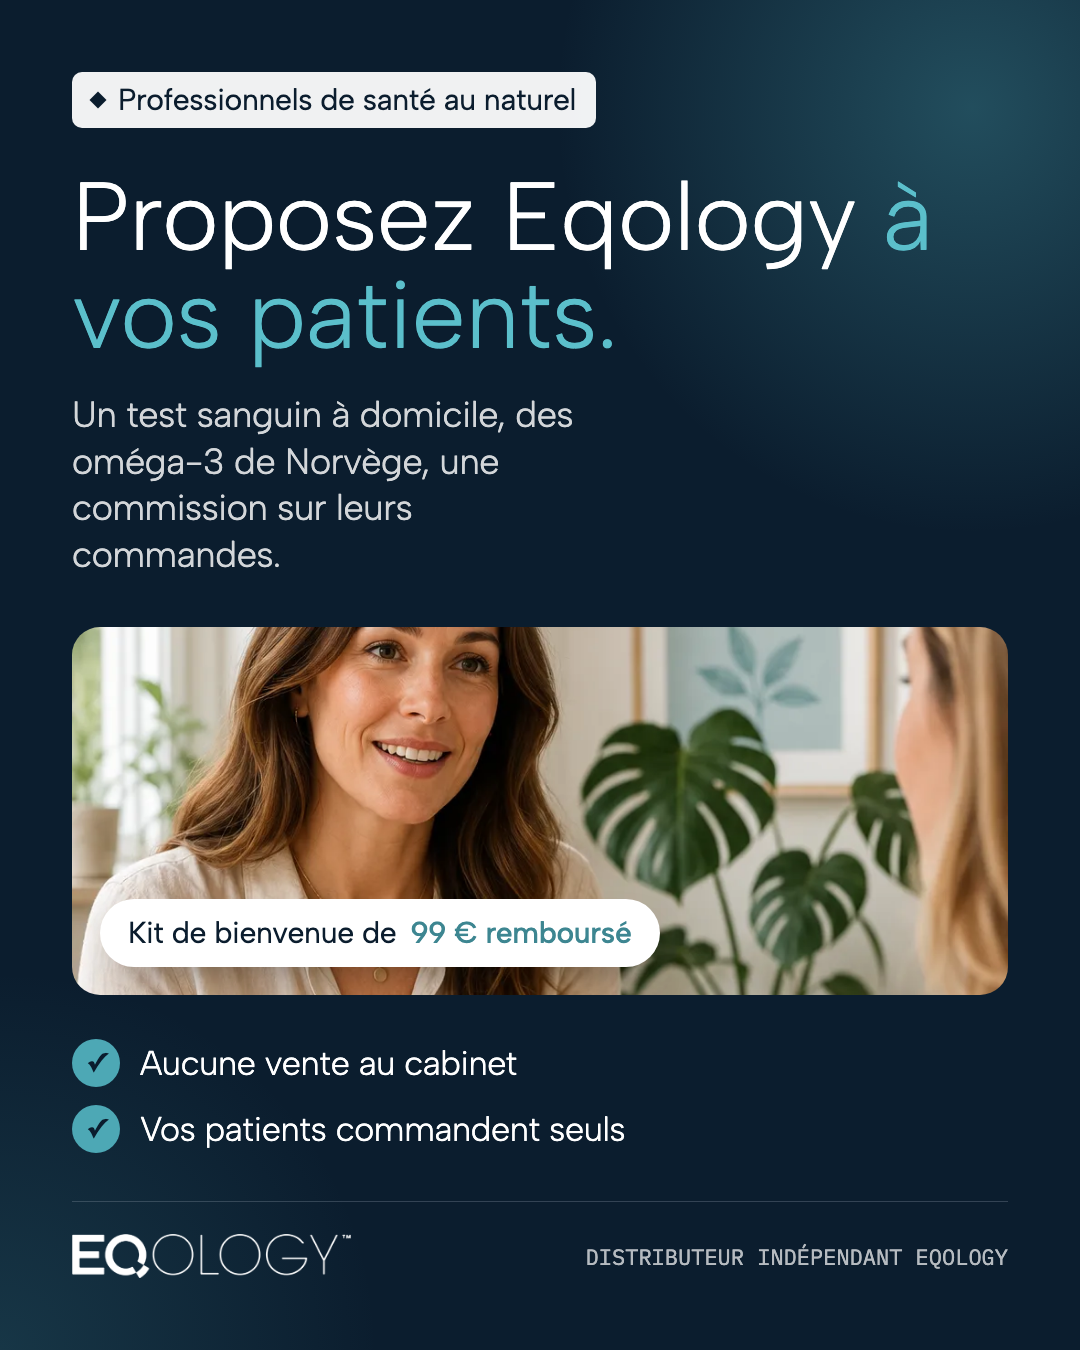
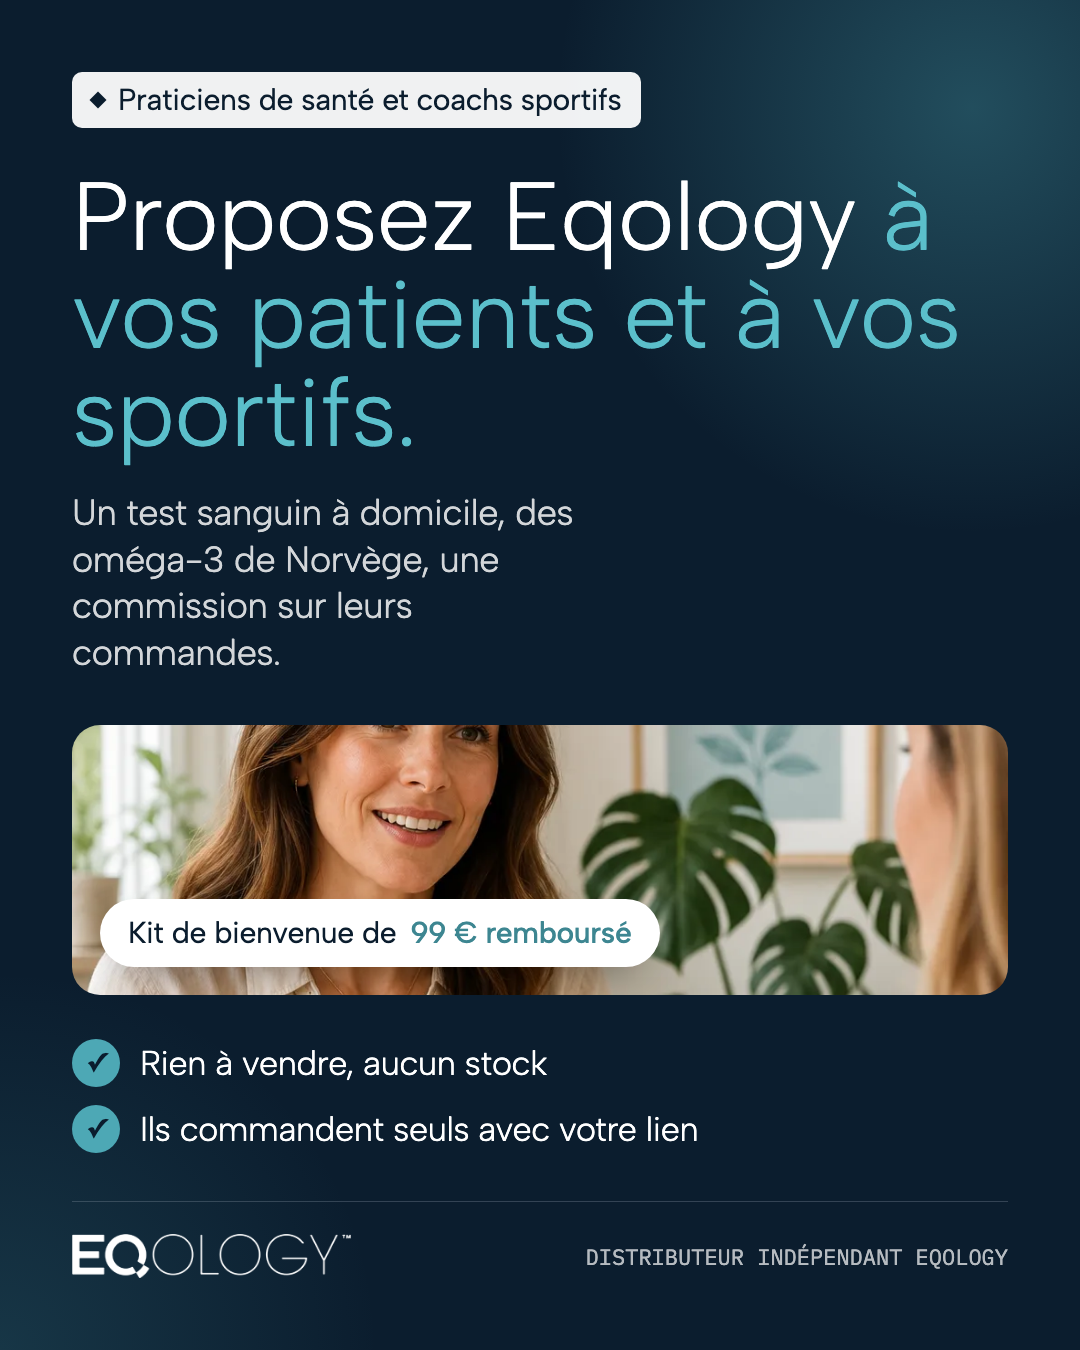
Annonces Meta : ensemble A praticiens de santé et coachs sportifs (prioritaire, 20 €/j), ensemble B complément de revenus (10 €/j) ; visuels et textes refaits

diff --git a/pubs/visuel.html b/pubs/visuel.html
@@ -37,6 +37,7 @@ li::before { content: '✓'; flex-shrink: 0; width: 48px; height: 48px; border-r
 .produits img { height: 100%; max-height: 560px; width: auto; object-fit: contain; filter: drop-shadow(0 30px 40px rgba(11,29,46,.25)); }
 .produits img.p2 { margin-left: -90px; max-height: 470px; }
 .produits img.p3 { margin-left: -70px; max-height: 420px; }
+.mention { font-size: 22px; margin-top: 24px; opacity: .6; }
 .story .page { padding: 120px 80px 260px; }
 .story h1 { font-size: 112px; }
 </style>
@@ -48,17 +49,18 @@ var q = new URLSearchParams(location.search), v = q.get('v') || 'pro', f = q.get
 if (f === 'story') document.body.classList.add('story');
 var pied = function (blanc) { return '<div class="pied"><img src="../assets/' + (blanc ? 'v2/eqology-logo-blanc.png' : 'images/eqology-logo.png') + '" alt=""><span class="mono">Distributeur indépendant Eqology</span></div>'; };
 var html = v === 'pro'
-  ? '<div class="page nuit"><span class="oeil">Professionnels de santé au naturel</span>'
-    + '<h1>Proposez Eqology <em>à vos patients.</em></h1>'
+  ? '<div class="page nuit"><span class="oeil">Praticiens de santé et coachs sportifs</span>'
+    + '<h1>Proposez Eqology <em>à vos patients et à vos sportifs.</em></h1>'
     + '<p class="sous">Un test sanguin à domicile, des oméga‑3 de Norvège, une commission sur leurs commandes.</p>'
     + '<div class="photo"><img src="../assets/v2/praticienne.webp" style="object-position:50% 30%"><span class="badge">Kit de bienvenue de <b>99&nbsp;€ remboursé</b></span></div>'
-    + '<ul><li>Aucune vente au cabinet</li><li>Vos patients commandent seuls</li></ul>'
+    + '<ul><li>Rien à vendre, aucun stock</li><li>Ils commandent seuls avec votre lien</li></ul>'
     + pied(true) + '</div>'
   : '<div class="page sable"><span class="oeil">Partenariat Eqology</span>'
-    + '<h1>Recommandez des oméga‑3 <em>et touchez une commission.</em></h1>'
-    + '<p class="sous">Vos proches commandent avec votre lien. Eqology encaisse et livre.</p>'
+    + '<h1>Un complément de revenus <em>avec les oméga‑3 Eqology.</em></h1>'
+    + '<p class="sous">Vos proches commandent avec votre lien. Eqology encaisse, livre et vous verse une commission.</p>'
     + '<div class="produits"><img src="../assets/v2/produits/pure-arctic-oil.webp"><img class="p2" src="../assets/v2/produits/omega-3-test-kit.webp"><img class="p3" src="../assets/v2/produits/pure-vegan-oil.webp"></div>'
     + '<ul><li>Sans stock ni livraison</li><li>À votre rythme, depuis chez vous</li><li>Kit de bienvenue de 99&nbsp;€ remboursé</li></ul>'
+    + '<p class="mention">Aucun revenu n’est garanti. Le plan de rémunération officiel vous est présenté avant tout engagement.</p>'
     + pied(false) + '</div>';
 document.getElementById('racine').innerHTML = html;
 document.getElementById('racine').style.height = '100%';

diff --git a/pubs/annonces.md b/pubs/annonces.md
@@ -1,53 +1,60 @@
 # Annonces Meta : recrutement de partenaires Eqology
 
-Objectif de campagne : **Prospects** (ou Ventes, avec conversion « Lead » sur le site).
-Conversion à optimiser : `Lead` (envoyé par le pixel 1114935464677335 sur merci.html, vérifié en production le 26/11/2026).
+Objectif de campagne : **Prospects**, conversion sur le site, événement `Lead` (pixel 1114935464677335, envoyé sur merci.html, vérifié en production le 26/11/2026). Conversion personnalisée de secours : « Demande de rappel » (1480872903511367).
 Bouton : **En savoir plus**. Visuels : `annonce-*-4x5.png` (fil), `annonce-*-9x16.png` (stories, reels).
+Page : « Yves Coignard · Distributeur indépendant Eqology » (1562178356968644). Compte pub : 1115842077938719. Annonceur et payeur : ZENCO SAS.
 
-Règles Meta à respecter : pas de montant de gain, pas de « revenu rapide », pas de question sur la situation financière ou la santé de la personne (« Besoin d'argent ? » est refusé).
+Budget : **30 € par jour**, réglé au niveau de chaque ensemble pour garder la priorité aux pros : **20 € pour A, 10 € pour B**. On ne touche à rien pendant 7 jours.
+
+Règles Meta à respecter : pas de montant de gain, pas de « revenu rapide », pas de phrase qui suppose la situation financière, la santé ou le métier de la personne (« Besoin d'argent ? », « Vous êtes fatigué ? » sont refusés).
 
 ---
 
-## Ensemble A : professionnels de santé au naturel
+## Ensemble A (prioritaire) : praticiens de santé et coachs sportifs
 
 Lien :
 `https://eqology-france.vercel.app/partenaire.html?cible=pro&utm_source=meta&utm_medium=paid&utm_campaign=partenaires-pro&utm_content=A1`
 
-Ciblage de départ : France, 28-65 ans, centres d'intérêt naturopathie, micronutrition, diététique, ostéopathie, médecine douce, nutrition.
+Ciblage : France, 25-65 ans. Meta ne cible plus par métier : on passe par les centres d'intérêt les plus proches, et le texte fait le tri.
+Intérêts : naturopathie, micronutrition, diététique, nutrition, ostéopathie, kinésithérapie, médecine douce, coaching sportif, préparation physique, entraîneur personnel, nutrition du sport.
+Visuels : `annonce-pro-4x5.png`, `annonce-pro-9x16.png`.
 
 **Texte principal**
-Vos patients vous demandent quels oméga‑3 choisir ? Avec Eqology, vous leur proposez d'abord un test sanguin à domicile, puis une huile de Norvège issue d'une pêche certifiée MSC.
+Praticiens de santé, coachs sportifs : on vous demande sûrement quels oméga‑3 prendre. Avec Eqology, vous proposez d'abord un test sanguin à domicile, puis une huile de Norvège issue d'une pêche certifiée MSC.
 
-Ils commandent seuls avec votre lien. Eqology encaisse, livre et vous verse une commission sur leurs commandes. Rien à vendre au cabinet, aucun stock.
+Vos patients ou vos sportifs commandent seuls avec votre lien. Eqology encaisse, livre et vous verse une commission sur leurs commandes. Rien à vendre, aucun stock.
 
 Votre kit de bienvenue de 99 € vous est remboursé, histoire de tester vous‑même les produits.
 
 Laissez votre numéro : un distributeur indépendant Eqology vous rappelle sous 48 h.
 
-**Titre** : Proposez Eqology à vos patients
+**Titre** : Proposez Eqology à vos patients et sportifs
 **Description** : Rappel sous 48 h, sans engagement
 
 ---
 
-## Ensemble B : grand public
+## Ensemble B : complément de revenus
 
 Lien :
-`https://eqology-france.vercel.app/partenaire.html?utm_source=meta&utm_medium=paid&utm_campaign=partenaires-public&utm_content=B1`
+`https://eqology-france.vercel.app/partenaire.html?utm_source=meta&utm_medium=paid&utm_campaign=partenaires-revenus&utm_content=B1`
 
-Ciblage de départ : France, 30-65 ans, centres d'intérêt compléments alimentaires, bien-être, alimentation saine, travail à domicile.
+Ciblage : France, 30-65 ans. Intérêts : compléments alimentaires, bien-être, alimentation saine, travail à domicile, entrepreneuriat.
+Visuels : `annonce-revenus-4x5.png`, `annonce-revenus-9x16.png`.
 
 **Texte principal**
-Vous parlez déjà d'oméga‑3 autour de vous ? Devenez partenaire Eqology : vos proches commandent avec votre lien, Eqology encaisse et livre, et vous touchez une commission sur leurs commandes.
+Devenez partenaire Eqology et développez un complément de revenus à votre rythme. Vos proches commandent avec votre lien, Eqology encaisse et livre, et vous touchez une commission sur leurs commandes.
 
-Pas de stock, pas de livraison, à votre rythme et depuis chez vous. Votre kit de bienvenue de 99 € vous est remboursé.
+Pas de stock, pas de livraison, tout se fait depuis chez vous. Votre kit de bienvenue de 99 € vous est remboursé.
 
 Le plan de rémunération officiel vous est présenté avant tout engagement. Aucun revenu n'est garanti.
 
-**Titre** : Devenez partenaire Eqology
+Laissez votre numéro : un distributeur indépendant Eqology vous rappelle sous 48 h.
+
+**Titre** : Un complément de revenus avec Eqology
 **Description** : Être rappelé sous 48 h
 
 ---
 
-## Variante de titre à tester (A et B)
-- Une commission sur chaque commande passée avec votre lien
-- Recommandez des oméga‑3 de Norvège
+## Variantes de titre à tester plus tard
+- A : Le test oméga‑3 pour vos patients et vos sportifs
+- B : Recommandez des oméga‑3 de Norvège
